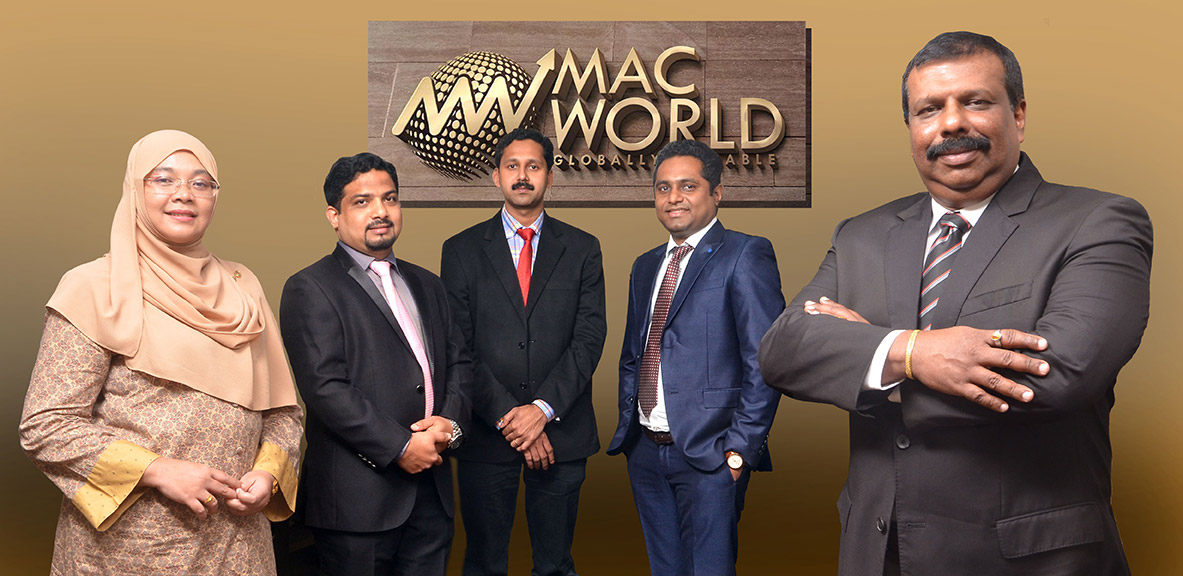
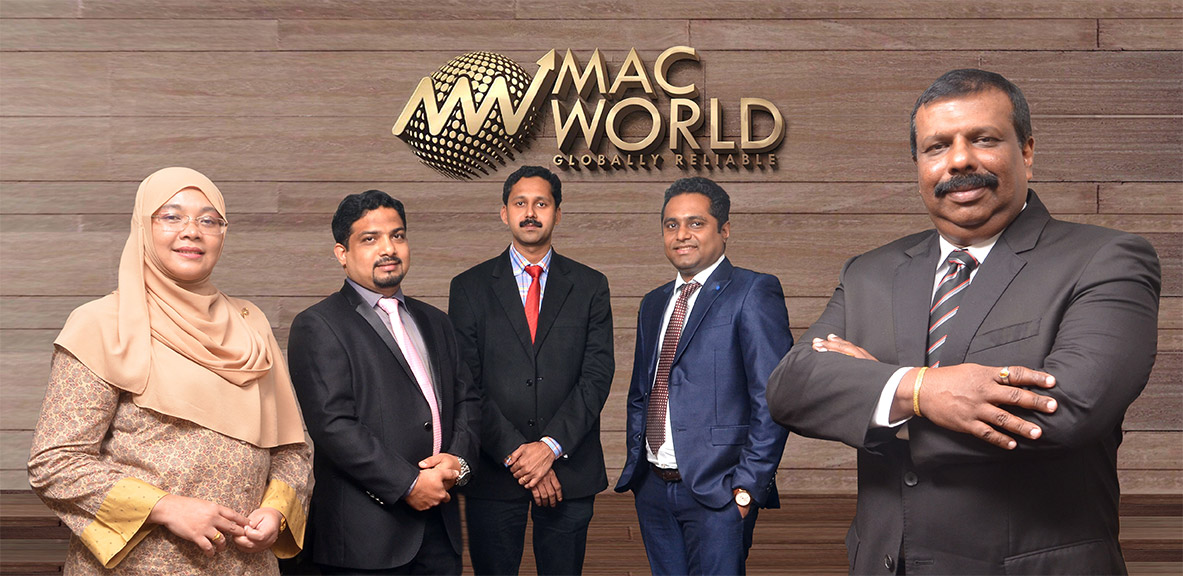
media and custom style pages updated

diff --git a/css/media.css b/css/media.css
@@ -492,3 +492,9 @@ screen and (height:1024px) {
 }
 
 @media only screen and ( max-width:170px) {}
+
+@media (min-width: 992px) and (max-width: 1285px) {
+    .border-line {
+        height: 690px;
+    }
+}

diff --git a/css/custom-style.css b/css/custom-style.css
@@ -1362,7 +1362,7 @@ footer {
 .border-line {
     border: 2px solid #fff;
     padding: 25px 30px 20px 40px;
-    height: 390px;
+    height: 420px;
     margin-bottom: 20px;
 }
 
